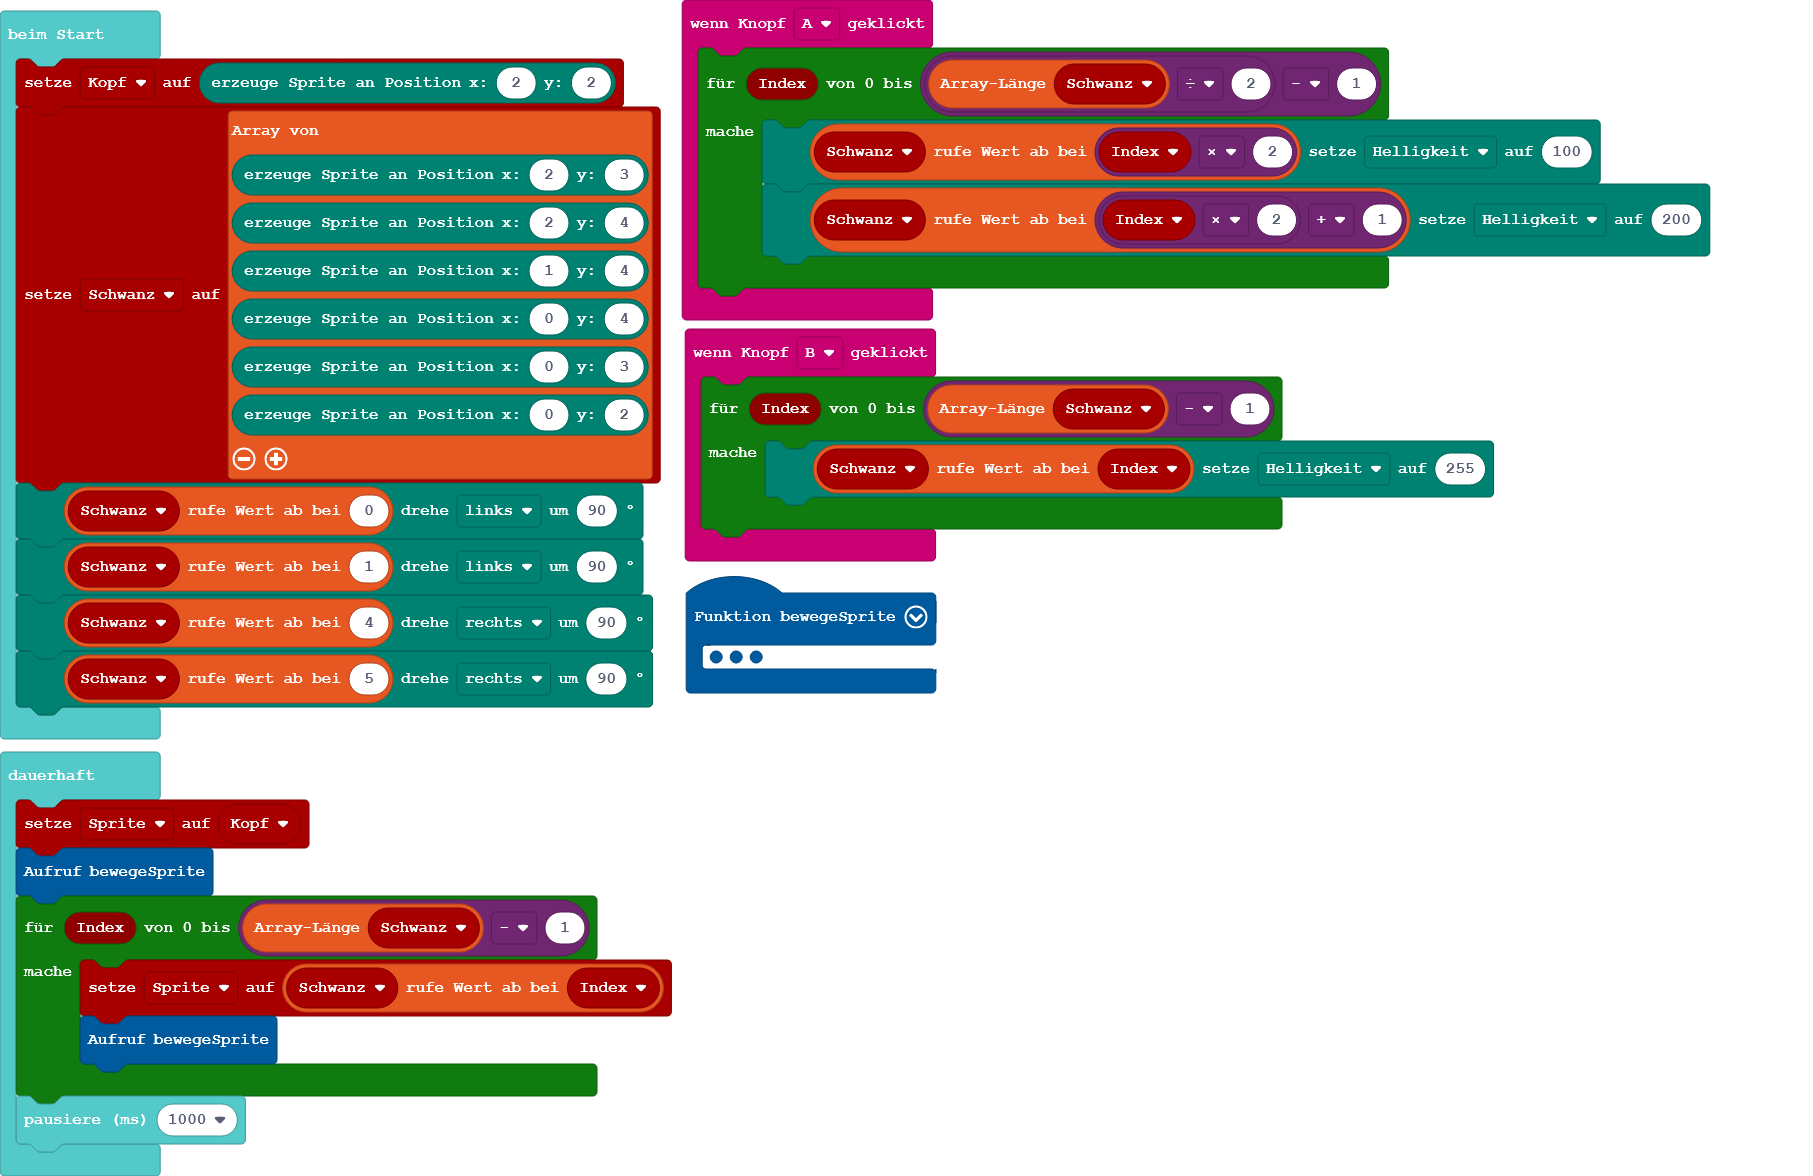
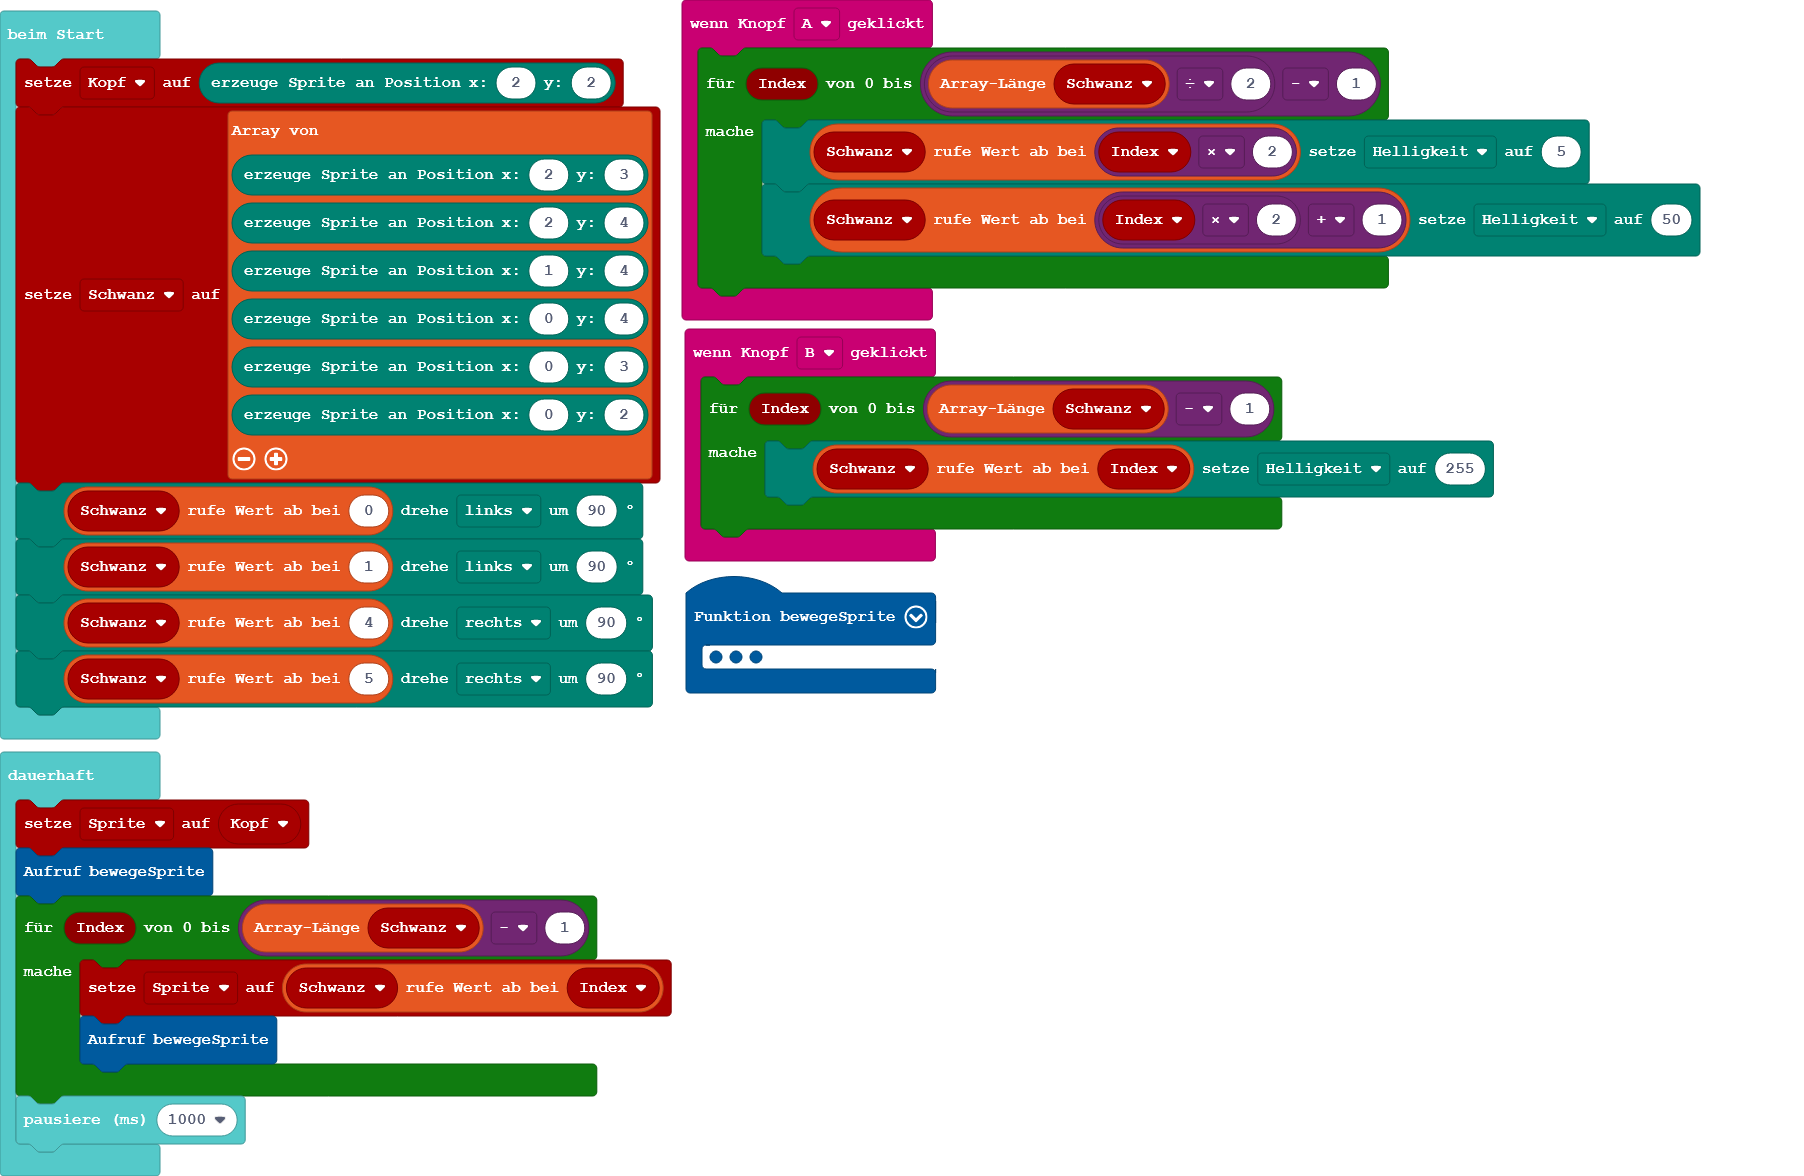
helligkeiten angepasst

diff --git a/main.ts b/main.ts
@@ -1,7 +1,7 @@
 input.onButtonPressed(Button.A, function () {
     for (let Index = 0; Index <= Schwanz.length / 2 - 1; Index++) {
-        Schwanz[Index * 2].set(LedSpriteProperty.Brightness, 100)
-        Schwanz[Index * 2 + 1].set(LedSpriteProperty.Brightness, 200)
+        Schwanz[Index * 2].set(LedSpriteProperty.Brightness, 5)
+        Schwanz[Index * 2 + 1].set(LedSpriteProperty.Brightness, 50)
     }
 })
 input.onButtonPressed(Button.B, function () {
